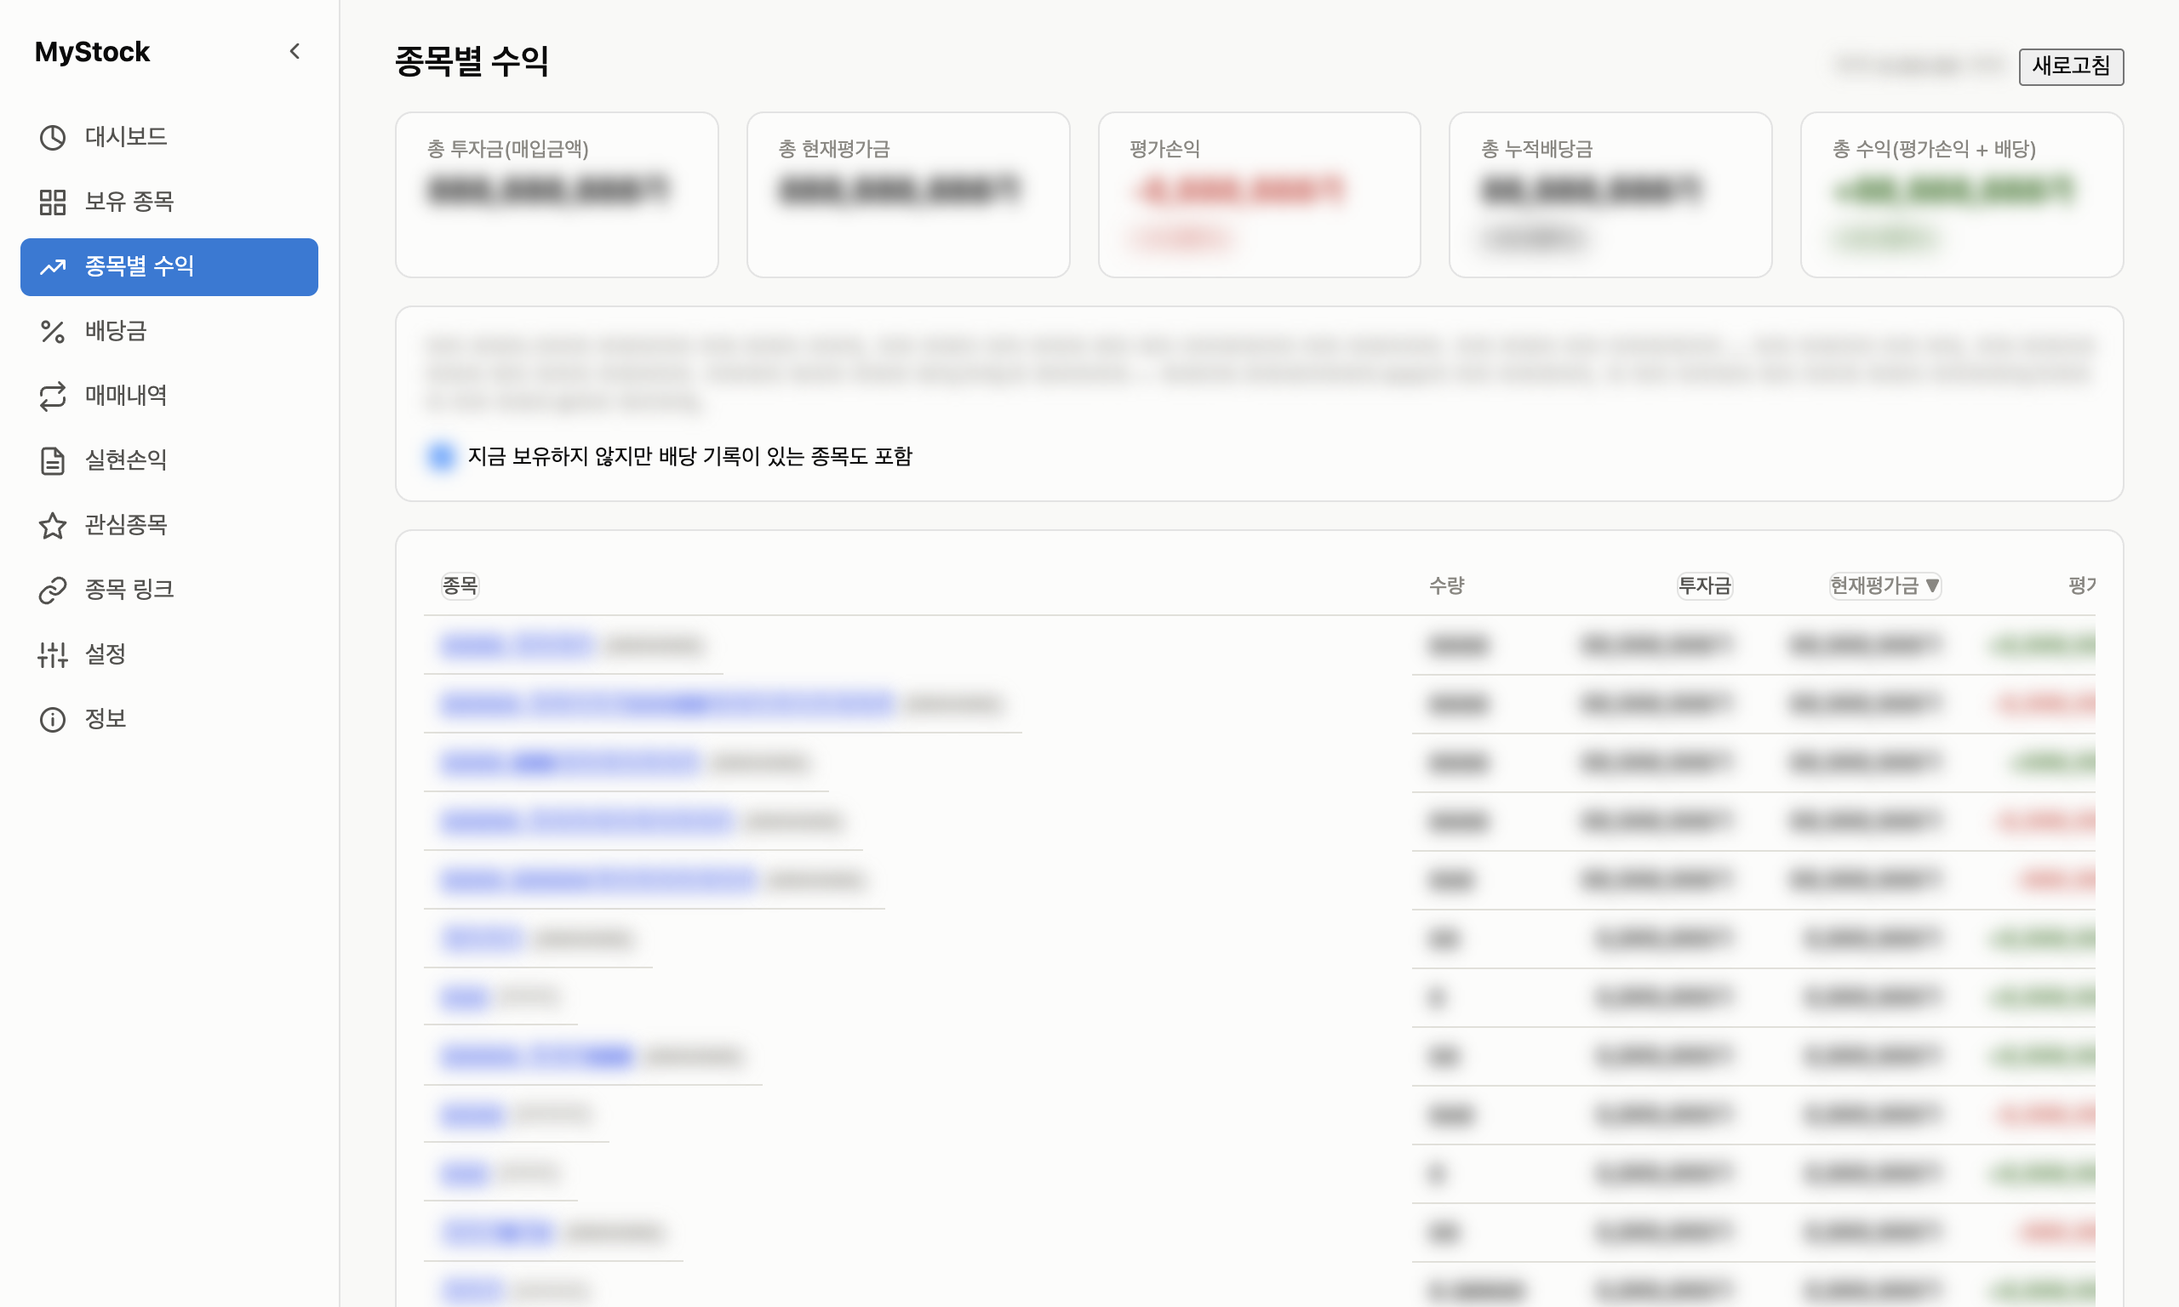
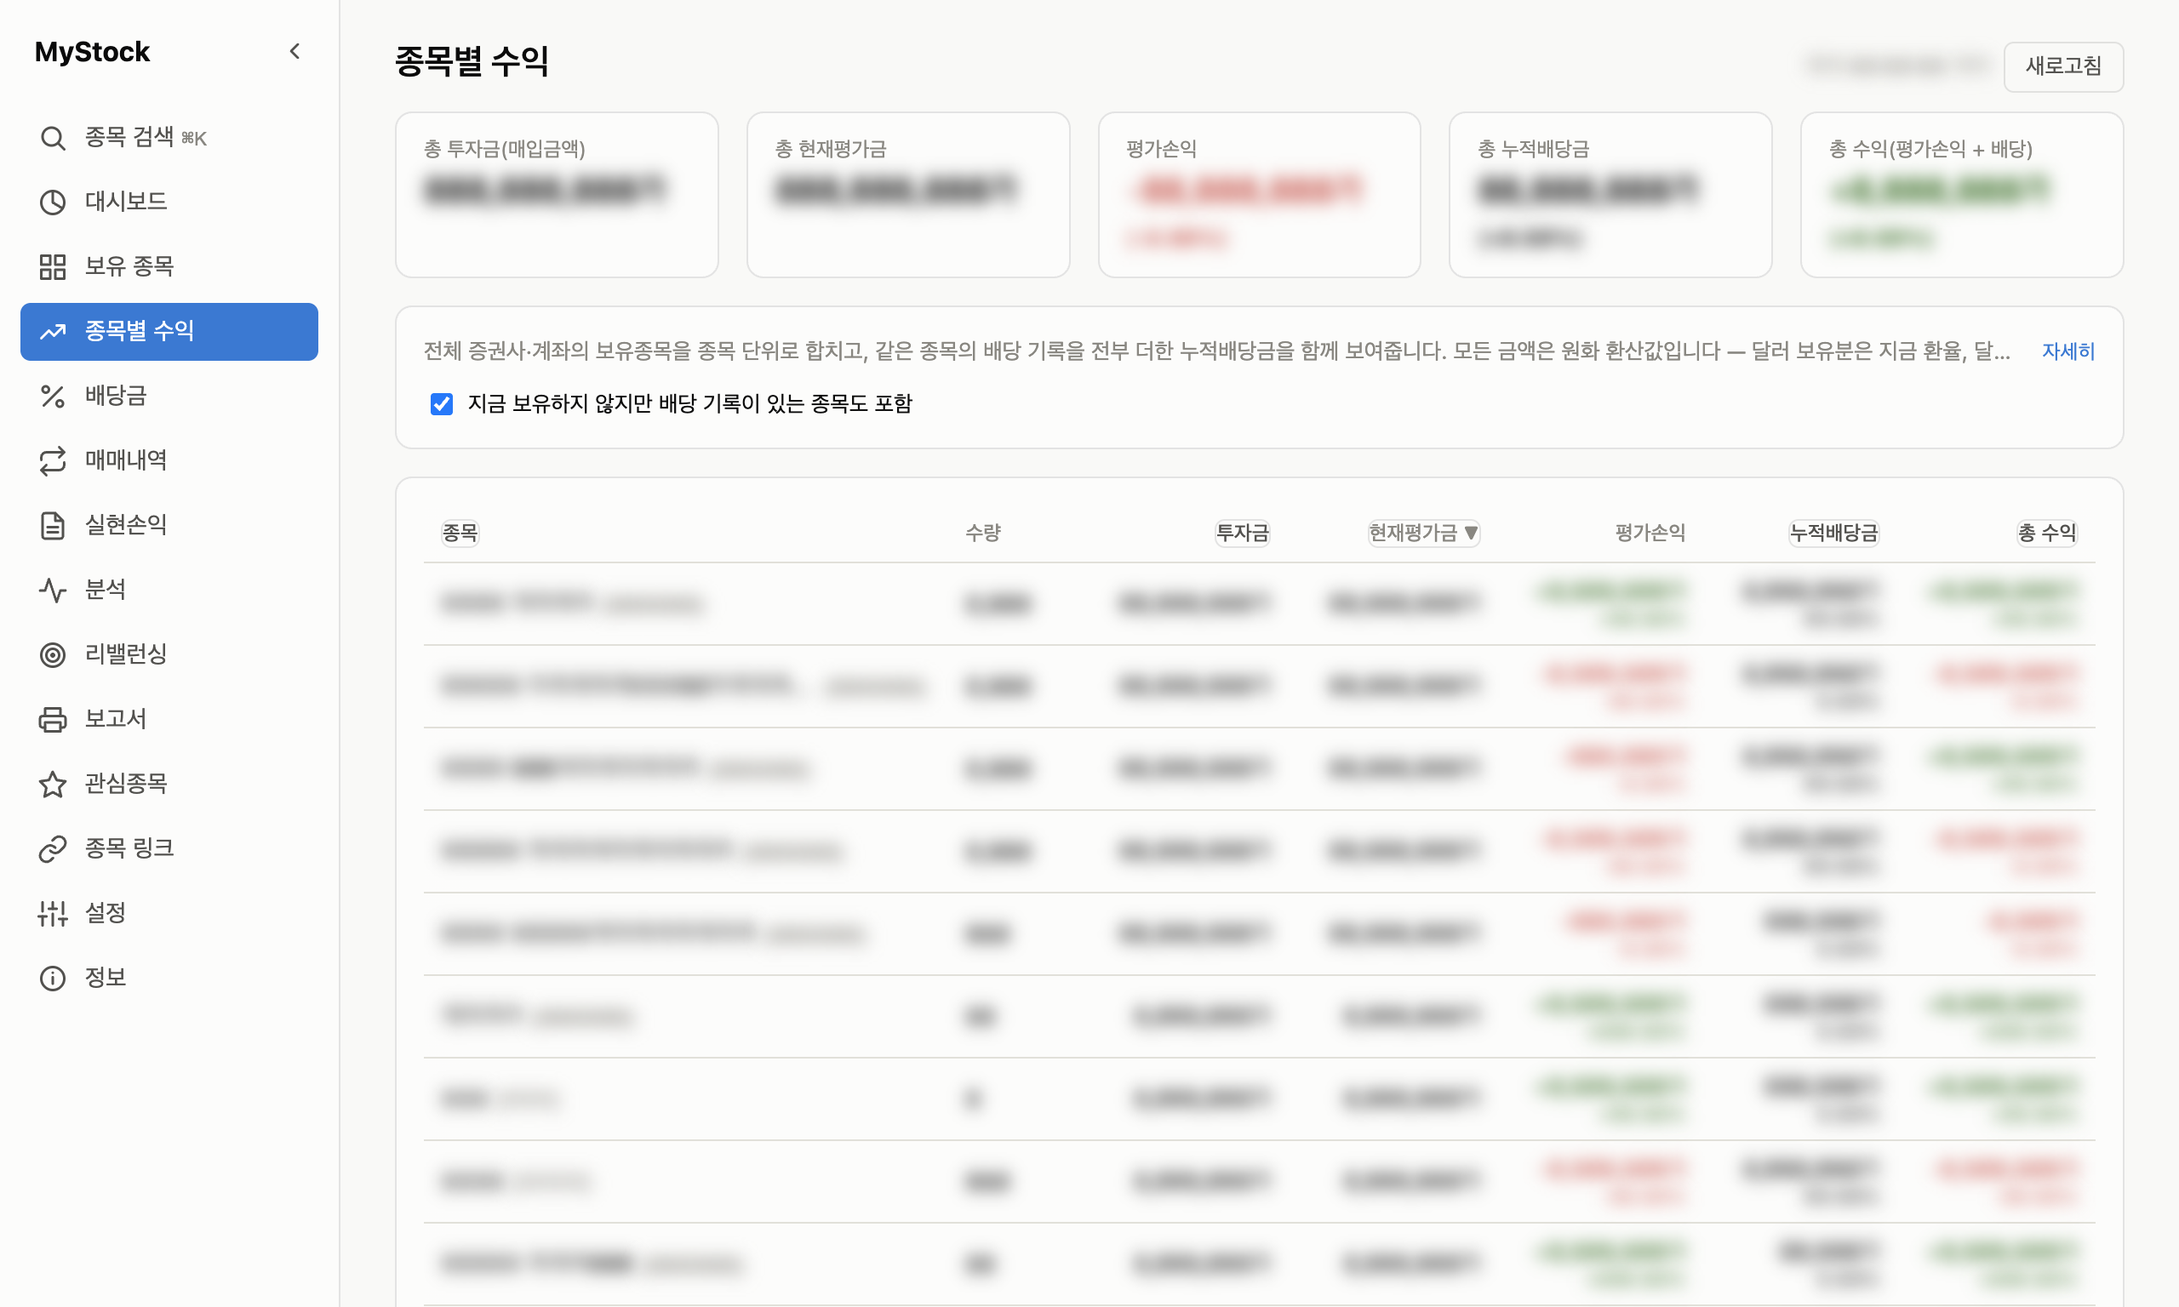
release: v1.4.0 — 버전·CHANGELOG, 매뉴얼 스크린샷 재촬영(마스킹)과 분석·리밸런싱·보고서 이미지 추가, 내부 문서 UX 반영

diff --git a/frontend/CLAUDE.md b/frontend/CLAUDE.md
@@ -105,7 +105,7 @@ React + Vite 렌더러 UI (TypeScript). 라우터 라이브러리 없이 `App.ts
   기록마다 지급월 평균 환율)가 만들고, 배당 기록의 `accountId`가 토스처럼 표시용 계좌번호
   (별칭의 `accountNumber`)로 적혀 있으면 내부 accountId로 되돌려 같은 계좌로 묶는다.
 - `src/components/MonthlyReturnChart.tsx` — 월별 diverging 막대(0% 기준선 위/아래로
-  자람, Overview.tsx의 "매월 보유종목 투자금 대비 수익률" 카드가 씀). 카테고리 색이 아니라
+  자람, Overview.tsx의 "누적 수익률 (매월 말, 투자금 대비)" 카드 — 2026-11-18 전엔 "매월 보유종목 투자금 대비 수익률" — 가 씀). 카테고리 색이 아니라
   `--good`/`--critical`(status 색)을 쓴다 — 이 값 자체가 손익(좋다/나쁘다)을
   뜻해서 color-formula.md의 "series가 곧 good/bad면 status를 입는다" 규칙에 해당.
   **기준선 위/아래 영역 높이가 비대칭이다** — 값이 전부 양수(또는 음수)인 흔한
@@ -160,7 +160,7 @@ React + Vite 렌더러 UI (TypeScript). 라우터 라이브러리 없이 `App.ts
   state). 새로고침을 연타해도 오래된 응답이 최신 상태를 덮어쓰지 않도록
   `monthlyCloseRequestId`(useRef 카운터)로 마지막 호출만 반영한다.
 - `src/components/NetWorthChart.tsx` — "순자산 추이(기록 시작 이후)" 카드(위 두
-  카드 바로 아래) 전용. `MonthlyInvestmentChart`와 그리는 방식(2-series line,
+  카드 바로 아래) 전용. **2026-11-18부터 0원이 아니라 기록 범위(최저~최고 ±여백)로 그리고 왼쪽 금액 눈금(`Y_AXIS`)·카드 폭 맞춤·날짜 라벨 건너뛰기**(아래 "화면 UX 정리" 절). `MonthlyInvestmentChart`와 그리는 방식(2-series line,
   `--series-1`/`--series-2`)은 똑같지만 입력이 다르다 — 매매내역 재구성 근사치가
   아니라 `backend/CLAUDE.md`의 "일별 자산 스냅샷" 절에서 하루 한 번 실제로 기록해둔
   값을 그대로 그린다. `loadAll()`의 나머지 로직(합계 계산)이 끝난 직후 그 합계를
@@ -185,7 +185,7 @@ React + Vite 렌더러 UI (TypeScript). 라우터 라이브러리 없이 `App.ts
   `closed`면 1분 자동 새로고침 호출을 건너뛴다(수동 새로고침은 그대로). Overview.tsx는 "섹터 비중" 도넛
   (`sectorSlices` — 백엔드 `weights`대로 평가금액을 섹터에 배분, `sector: null`·응답 없는 종목은 회색 "분류 안 됨", 첫 로딩
   수십 초라 별도 상태, `etfPending`이면 30초마다 최대 6번 다시 받아 ETF 분류를 채움)과
-  월별 수익률 카드 아래 "지수와 비교" 표(`indexComparisonRows` — 내 보유종목은 `monthlyAmountRows`로 단순 Dietz 근사:
+  월별 수익률 카드 아래 "그 달 수익률 — 지수와 비교" 표(`indexComparisonRows` — 내 보유종목은 `monthlyAmountRows`로 단순 Dietz 근사:
   (평가 변화 − 투자금 변화) ÷ 전월 평가)를 둔다.
 - `src/components/UpcomingDividends.tsx`(배당금 화면, 월별 카드 아래) / `src/components/OfficialRealizedCompare.tsx`(실현손익
   화면, `broker` kis|nh|kiwoom — 증권사 필터가 전체이거나 그 증권사일 때) — 키가 없으면 비교 카드는 안 그리고(409), 다가오는 배당은
@@ -219,7 +219,7 @@ React + Vite 렌더러 UI (TypeScript). 라우터 라이브러리 없이 `App.ts
   수동 새로고침 버튼으로 충분하다고 판단).
 - `src/pages/Settings.tsx` — 브로커별 자격증명 폼. **하드코딩이 아니라 백엔드의
   `GET /api/settings/credential-fields`를 읽어 동적 렌더링** — 새 브로커/필드는
-  백엔드 `credentialFields.ts`만 고치면 여기는 자동 반영됨. "API 키 등록" 폼의 브로커
+  백엔드 `credentialFields.ts`만 고치면 여기는 자동 반영됨. "API 키 등록" 폼은 처음 열 때 **아직 연결 안 된 증권사**를 고른다(`status` prop, 사용자가 한 번 고르면 그대로 — 2026-11-18). 이 폼의 브로커
   선택지는 `API_BROKER_IDS`가 아니라 **자격증명 필드가 실제로 있는 브로커**
   (`fieldSpecs[id]?.length > 0`)로 고른다 — KB증권처럼 CSV 전용이면서 자격증명은
   받는 브로커(아래 `kbSync.ts` 절 참고)가 생기면서 `API_BROKER_IDS`만으로는
@@ -541,7 +541,7 @@ React + Vite 렌더러 UI (TypeScript). 라우터 라이브러리 없이 `App.ts
   이미 뭘 골라놨든 상관없이 매번 연동 계좌로 강제 덮어쓴다. 사용자가 드롭다운에서
   다른 KB 계좌(IRP 등)를 직접 고르면 그 이후로는 안 건드린다.
 - **Google Sheets 내보내기/가져오기**(Dashboard.tsx/Trades.tsx/Dividends.tsx, 각 화면
-  헤더의 CSV 버튼 옆): `api.exportToGoogleSheet(dataType)`/`importFromGoogleSheet(dataType)`
+  헤더의 "가져오기·내보내기 ▾" 메뉴 안 — `components/ActionMenu.tsx`, 2026-11-18 전엔 CSV 버튼 옆에 나란히): `api.exportToGoogleSheet(dataType)`/`importFromGoogleSheet(dataType)`
   (`dataType`: `'holdings'|'trades'|'dividends'`)를 그대로 부르기만 하면 되고,
   대상 선택 UI가 없다 — CSV와 같은 범위(전체 브로커/계좌)를 그대로 시트 탭
   하나에 매핑한다. **CSV 가져오기와 의미가 다르다** — CSV는 부분 병합/업서트/
@@ -559,7 +559,7 @@ React + Vite 렌더러 UI (TypeScript). 라우터 라이브러리 없이 `App.ts
   계좌 하나를 골라 파고드는 화면인데, 이 화면만 유일하게 **모든 브로커·모든 계좌를
   합쳐서** 보여준다 — 카드 4개: 1) 전체 계좌 보유종목 비중(도넛, 종목별 평가금액
   상위 5 + 기타), 2) 선택 연도 월별 배당금(막대, `DividendsChart` 재사용), 3) 같은
-  연도 배당금 비중(도넛, 종목별), 4) 매월 보유종목 투자금 대비 수익률(diverging
+  연도 배당금 비중(도넛, 종목별), 4) 누적 수익률(매월 말, 투자금 대비 — 예전 제목 "매월 보유종목 투자금 대비 수익률", diverging
   막대, `MonthlyReturnChart`). 데이터는 마운트 시 한 번만 불러온다(자동 새로고침 없음,
   수동 "새로고침" 버튼만) — 브로커마다 계좌 목록 조회 + 계좌마다 보유종목 조회를
   전부 병렬로 하는 호출량이 다른 화면보다 훨씬 많아서(Dashboard.tsx의 "전체 계좌"
@@ -599,7 +599,7 @@ React + Vite 렌더러 UI (TypeScript). 라우터 라이브러리 없이 `App.ts
   뺀 뒤 배너로 안내).
 - `src/pages/Dashboard.tsx` — 보유 종목. 브로커 선택 → 계좌/환율 조회 → 포트폴리오
   조회, 3단계 `useEffect` 체인(환율은 모든 증권사 — 한투 미국 주식·CSV 달러 종목도 있어서, 예전엔 토스만). 네 스탯 타일(`AmountTile`/
-  `RateTile`)은 달러 보유분이 있으면(`hasUsdHoldings`) 원화/달러/합계(환산) 3줄,
+  `RateTile`)은 달러 보유분이 있으면(`hasUsdHoldings`) 원화/달러/합계(환산) 3줄(**0인 통화 줄은 뺀다** — 2026-11-18; 환율·토스 예수금 안내는 상자 두 개 대신 타일 아래 한 줄),
   없으면 한 줄만 보여준다 — **굵은 글씨는 항상 합계(환산) 한 줄에만** 쓴다.
   `hasUsd` 판단은 개별 타일 값이 아니라 포트폴리오 전체의 달러 투자금 여부로 넘겨서,
   손익금액이 우연히 0이어도 3줄 구조가 안 깨지게 한다. `RateTile`의 합계 손익률은
@@ -651,7 +651,7 @@ React + Vite 렌더러 UI (TypeScript). 라우터 라이브러리 없이 `App.ts
   하나라도 있으면 "계좌" 열을 보여준다(개별 계좌 모드에선 이 필드가 없어서 열 자체가
   안 생김 — Trades.tsx의 `isAllMode` 전용 컬럼과 같은 패턴이지만 여긴 별도 상태
   플래그 없이 데이터 유무로 판단).
-  **"배당 포함 손익금액" 열**(손익률 뒤): 손익금액 + **이 계좌의 이 종목**에서 받은
+  **"배당 포함 손익" 열**(손익 뒤 — 2026-11-18부터 표는 "평균가 · 현재가"·"손익(아래 손익률)"을 한 칸씩 합쳐 열 수를 줄였다): 손익금액 + **이 계좌의 이 종목**에서 받은
   배당 합계(`rows` useMemo의 `dividendFor`) — "종목별 수익" 화면과 달리 다른 계좌의
   같은 종목 배당은 섞지 않는다(사용자 명시 요청, 2026-11-04). 배당 기록의 계좌는
   `accountLabels.ts`의 `resolveDividendAccountId`로 내부 accountId로 되돌려 비교한다
@@ -676,7 +676,7 @@ React + Vite 렌더러 UI (TypeScript). 라우터 라이브러리 없이 `App.ts
   버튼을 숨기고, 직접 입력 폼의 증권사 선택지에서도 뺀다(백엔드도 409로 막는다). **`amount`는 세후, `tax`(선택)는
   원천징수 세금** — 표에 "세금" 열, 추가 폼·인라인 수정에 세금 칸, CSV에 선택 컬럼 `tax`가 있다. `currency`(KRW/USD) 기준 `amount`를 원본 통화
   그대로 저장(backend/CLAUDE.md 참고). `accountId`(선택, `string | null`)로 한 증권사
-  안의 여러 계좌를 구분할 수 있다 — "배당 기록 추가" 폼의 "계좌 (선택)" 입력칸(브로커
+  안의 여러 계좌를 구분할 수 있다 — "배당 기록 추가" 폼(2026-11-18부터 기본 접힘 — "+ 배당 기록 직접 추가")의 "계좌 (선택)" 입력칸(브로커
   종류와 무관하게 항상 노출 — CSV 전용 브로커뿐 아니라 토스/KIS도 계좌가 여러 개일 수
   있으므로), 인라인 수정 행, 목록의 "계좌" 컬럼(라벨이 있으면 라벨, 없으면 accountId
   원문, 둘 다 없으면 `-` — 라벨 조회는 `accountLabels.ts` 참고), CSV
@@ -776,7 +776,7 @@ React + Vite 렌더러 UI (TypeScript). 라우터 라이브러리 없이 `App.ts
   대상으로 하고, **가져오기**도 대상 선택 없이 CSV 행 자체의 `broker`/`accountId`를
   그대로 쓴다. `TRADES_CSV_HEADER`에 선택 컬럼 `name`이 있다 — 비우면 백엔드가
   자동조회하고, 채우면 그 값을 그대로 쓴다(API 연동이 전혀 없을 때의 유일한 채움
-  경로). **"매매내역 추가"**(수동 입력) 폼은 `CSV_ONLY_BROKER_IDS`만 증권사
+  경로). **"매매내역 추가"**(수동 입력, 2026-11-18부터 기본 접힘 — "+ 매매내역 직접 추가") 폼은 `CSV_ONLY_BROKER_IDS`만 증권사
   선택지로 준다(Dividends.tsx의 배당 기록 추가 폼과 다른 점 — 토스/KIS는 실시간
   API로 실제 체결 내역이 write-through 동기화되므로, 그 위에 수동 입력을 섞으면
   어느 쪽이 진짜 체결 내역인지 알 수 없어진다) — 별도 백엔드 라우트 없이 기존 CSV
@@ -924,6 +924,8 @@ React + Vite 렌더러 UI (TypeScript). 라우터 라이브러리 없이 `App.ts
   `setWindowOpenHandler`가 시스템 브라우저로 넘기고, 링크 클릭은 행 클릭으로 번지지
   않게 막는다(관심종목 표는 행을 누르면 상세가 열려서). 상장폐지 종목(예: 028080 휴맥스홀딩스)은 국내 규칙상 링크가
   만들어지지만 토스에 페이지가 없으니 "링크 없음"으로 저장하면 된다.
+  **표 모양(2026-11-18)**: 링크가 있는 행은 주소를 짧은 글자(`https://www.` 뗌)로 보이고 "수정"(`editing` Set)을 눌러야 입력칸이 된다 —
+  69줄 전부 입력칸이라 빽빽하고 오른쪽 버튼이 잘렸다. "저장"은 고칠 때만 보인다.
 - `src/pages/Watchlist.tsx` — 관심종목(보유하지 않은 종목의 현재가만 추적).
   다른 화면들의 "종목코드 입력 → 디바운스 자동조회" 패턴과 달리, 입력칸은
   그냥 값만 들고 있다가 "추가" 버튼을 눌러야 `api.addWatchlist(symbol)`을
@@ -945,7 +947,8 @@ React + Vite 렌더러 UI (TypeScript). 라우터 라이브러리 없이 `App.ts
   36개월을 넘으면 한 달 폭을 줄이고 점·매달 라벨 대신 선 + 1월에만 연도 라벨로
   그린다(수백 개월이 수만 px가 되지 않게).
   토스 미연동이거나 그 종목을 못 찾으면 빈 배열이 와서 차트 대신 안내 문구를
-  보여준다.
+  보여준다. 목록의 **"목표가" 열**(2026-11-18)은 `usePlanner()`의 `watchTargets`를 읽기만 한다(고치는 곳은 상세의
+  `WatchTargetEditor`) — 지금 가격이 이상·이하 조건에 닿으면 굵게 "도달"(상태 색 아님).
 
 ## 개발
 

diff --git a/CLAUDE.md b/CLAUDE.md
@@ -121,6 +121,8 @@ npm run dev              # frontend(Vite) + electron을 동시에 실행
   종목 정보·ETF 구성, 토스·NH·키움 투자원금)과 **KIS 해외주식·NH(실데이터 미검증, 모의투자 합계 제외)·키움(실키 미확인)**은 `backend/CLAUDE.md`의 해당 절.
 - **사용자 계획·목표 값(월 배당 목표·ISA/연금 납입과 한도·목표 비중·알림·목표가·은퇴 시뮬레이션·적립식 계획)은 `planner.json` 하나**, OS 알림과 보고서 PDF는 백엔드가 메인 프로세스에서 —
   `backend/CLAUDE.md` "계획·목표 값, 알림, 보고서 PDF". 세법 한도는 기본값이 2025년 확정치라 개정되면 화면에서 바꾼다.
+- **화면 공용 부품**(2026-11-18 UX 정리): 설명 문단은 `Hint`(한 줄 + 자세히), 버튼 묶음은 `ActionMenu`, 긴 화면은 `SectionNav`, 차트 폭은 `useContainerWidth`,
+  표는 금액 칸 안 `cell-sub`로 열을 줄인다 — 새 화면·카드도 이걸 쓴다. `frontend/CLAUDE.md` "화면 UX 정리" 절.
 - **보안 하드닝**(CSP·fuses·원격 디버깅 차단)은 `electron/CLAUDE.md` "보안 하드닝" 절 — 렌더러에 외부 자원을 들이면 **패키징본에서만** 깨진다.
 - 브로커별 상세(인증·Rate Limit·제약)는 `README.md`와 `backend/CLAUDE.md`. 연동 점검은 `npm test`(가짜 서버) + `npm run check:<broker>`(실서버).
 

diff --git a/README.md b/README.md
@@ -25,7 +25,7 @@
   - 릴리스마다 `SHA256SUMS.txt`가 함께 올라갑니다 — 받은 파일이 진짜인지 확인하는 방법은
     [매뉴얼의 "받은 파일 확인하기"](doc/user-manual.md#받은-파일-확인하기-선택)를 보세요.
 - **사용자 매뉴얼**: [`doc/user-manual.md`](doc/user-manual.md) — 화면별 사용법, API 키 발급 안내(증권사·Google·한국수출입은행), 백업/복원, 문제 해결.
-- **변경 내역**: [`CHANGELOG.md`](CHANGELOG.md) — 버전별 새 기능과 수정(최신 v1.3.3). 새 버전으로 바꿔 설치해도 데이터와 API 키는 그대로 남습니다
+- **변경 내역**: [`CHANGELOG.md`](CHANGELOG.md) — 버전별 새 기능과 수정(최신 v1.4.0). 새 버전으로 바꿔 설치해도 데이터와 API 키는 그대로 남습니다
   ([매뉴얼의 "새 버전으로 업데이트"](doc/user-manual.md#새-버전으로-업데이트)).
 - ⚠ 설치 파일은 **OS별 코드 서명 인증서로 서명되어 있지 않아** 처음 실행할 때 macOS·Windows가 막습니다.
   OS별 허용 방법(macOS 15부터는 우클릭 → 열기가 통하지 않음)은

diff --git a/CHANGELOG.md b/CHANGELOG.md
@@ -3,7 +3,7 @@
 MyStock의 버전별 변경 사항입니다. 설치 파일은 [GitHub Releases](https://github.com/ultracat/MyStockInfo/releases)에서 받습니다.
 기능별 사용법은 [사용자 매뉴얼](doc/user-manual.md)을 참고하세요.
 
-## 다음 버전 (미배포)
+## v1.4.0 — 2026-11-18
 
 계획·분석 기능을 크게 늘린 버전입니다. 새 화면 셋(**분석**·**리밸런싱**·**보고서**)과 어디서나 쓰는 **빠른 종목 검색(⌘K)**, 컴퓨터 **알림**이 생겼고,
 배당·실현손익·매매내역 화면에 계획과 절세를 돕는 카드가 더해졌습니다. 데이터와 API 키는 그대로 이어서 씁니다.
